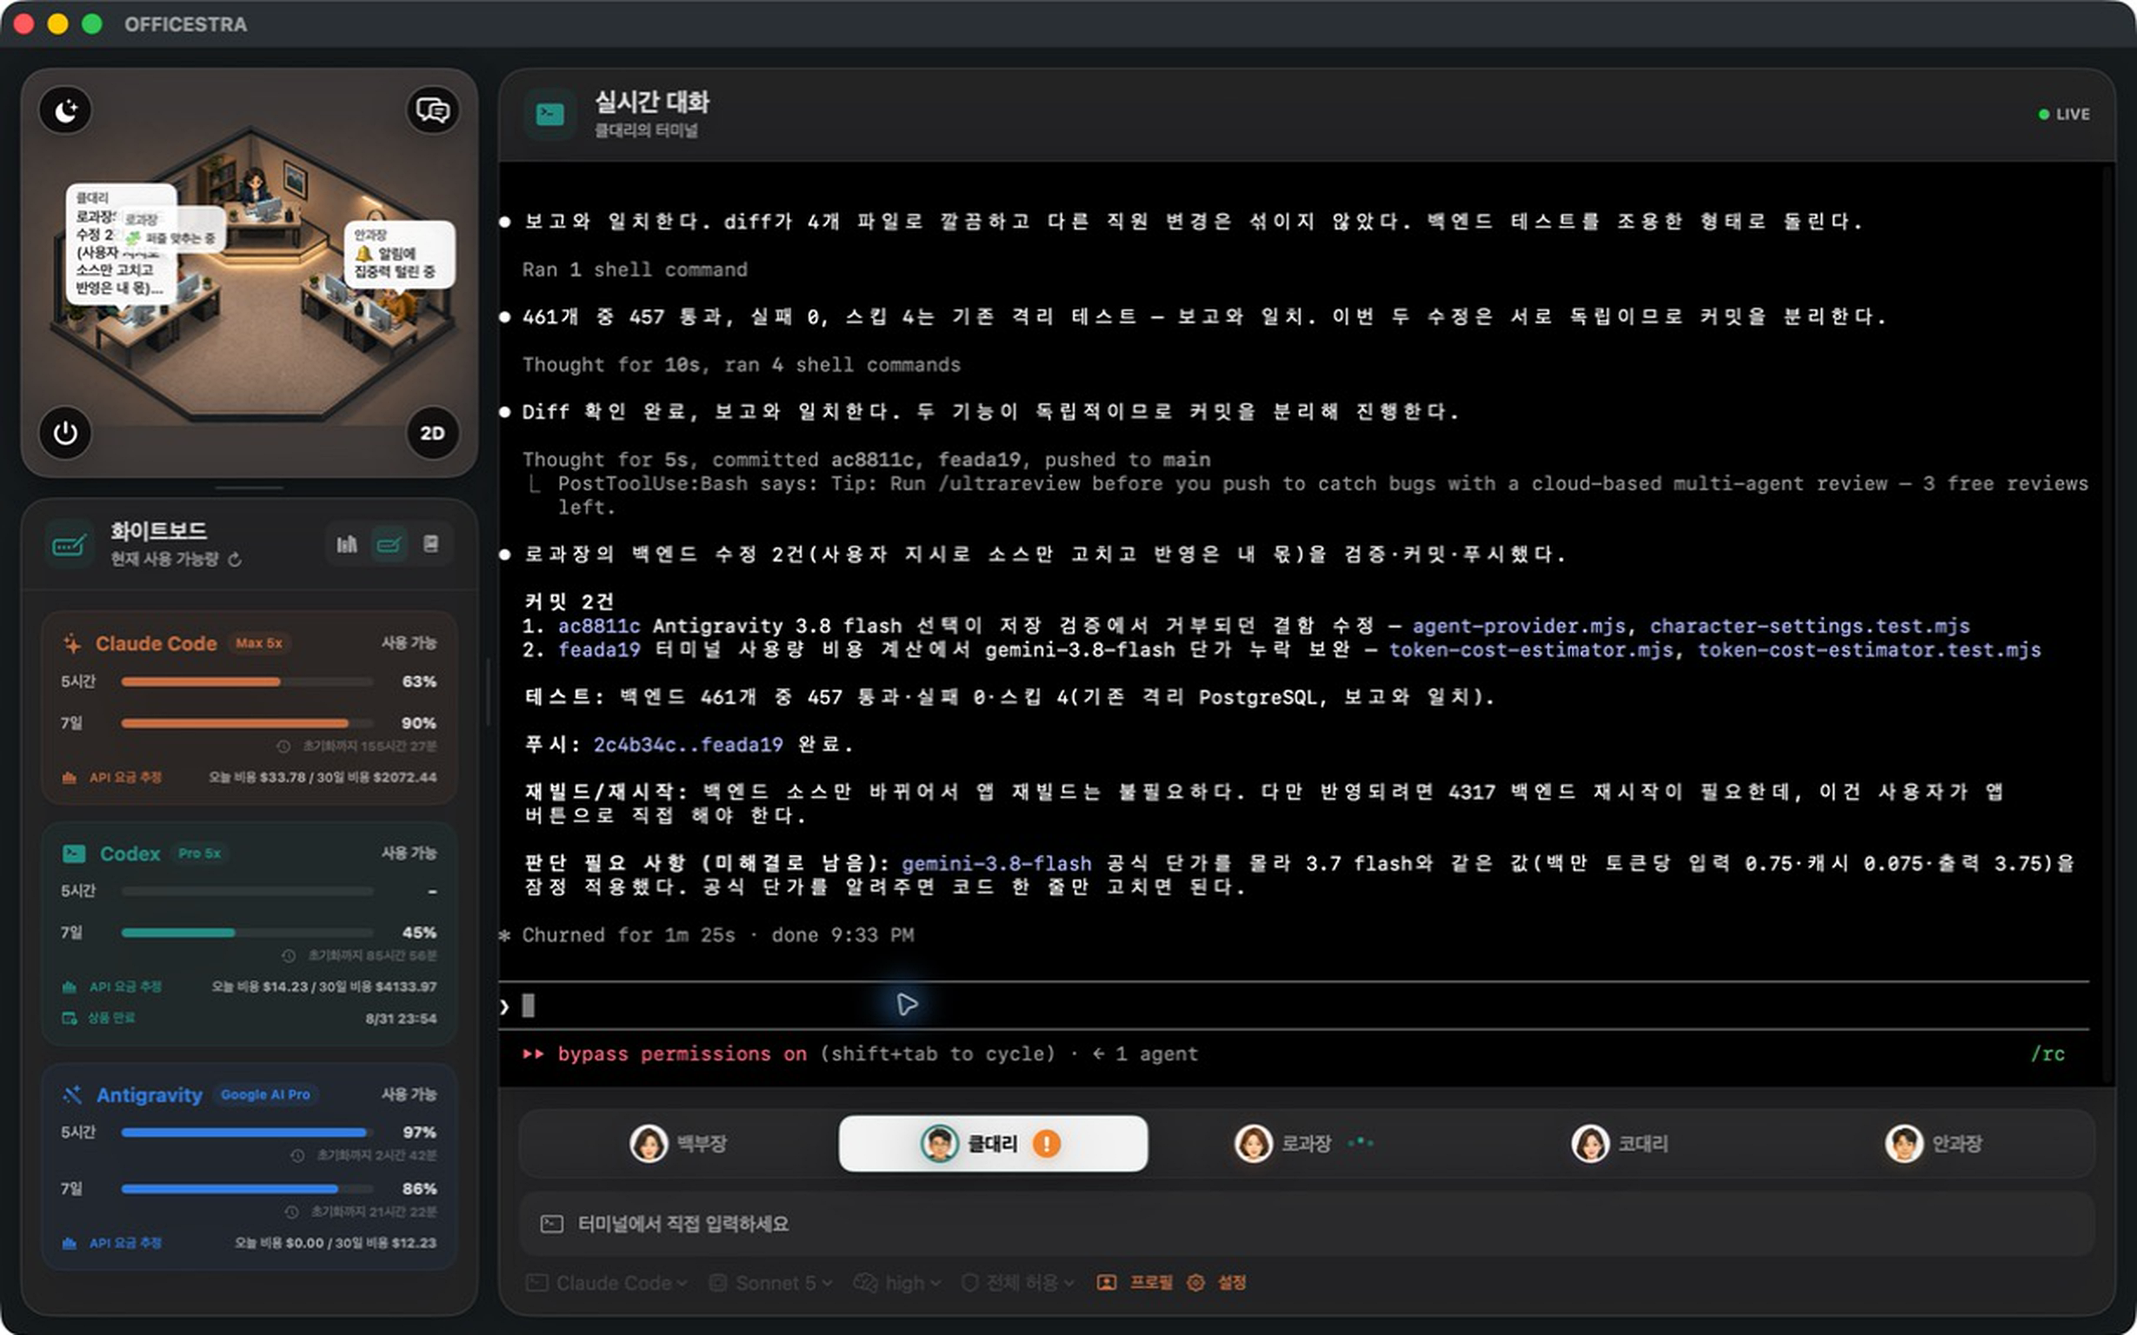
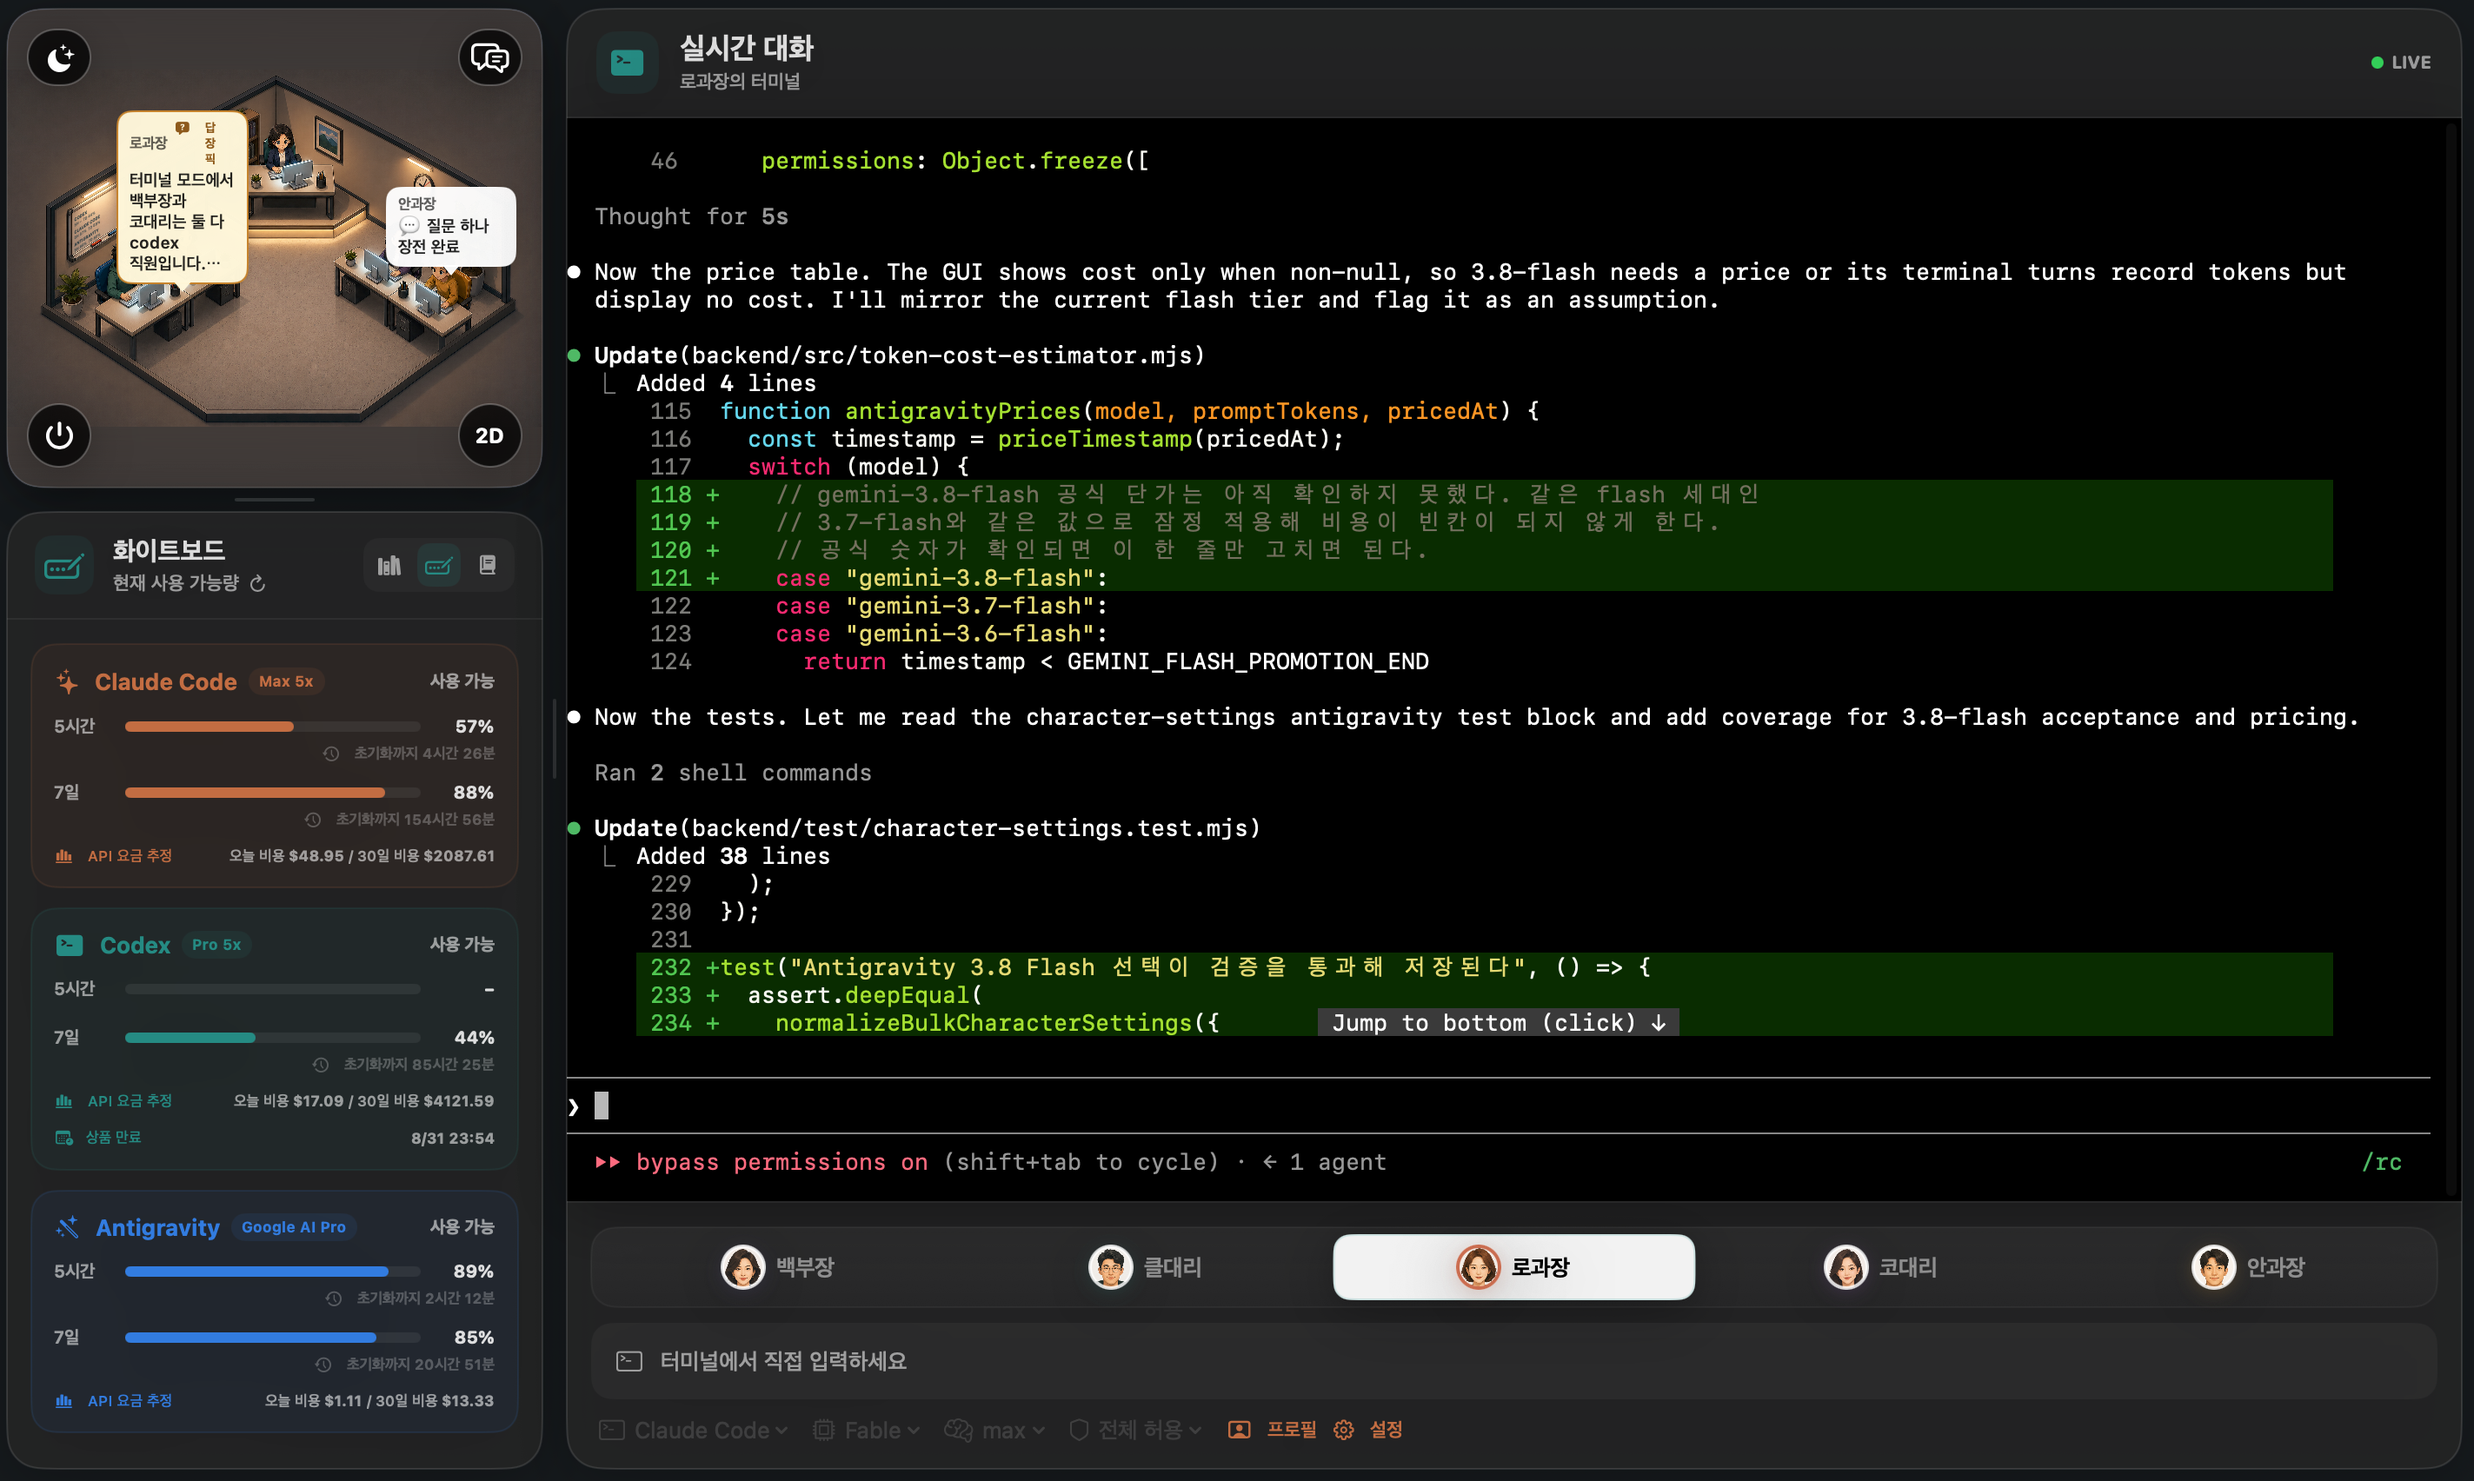
docs: use original GUI and terminal screenshots

diff --git a/README.en.md b/README.en.md
@@ -60,17 +60,20 @@ the next task.
 
 ## Two ways to work: GUI and real terminal
 
-<p align="center">
-  <img src="docs/images/officestra-gui-mode.png" alt="OFFICESTRA GUI mode" width="100%"><br>
-  <strong>GUI mode</strong><br>
-  <sub>Conversations, work history, and coworkers in one view</sub>
-</p>
-
-<p align="center">
-  <img src="docs/images/officestra-terminal-mode.png" alt="Claude Code CLI running inside OFFICESTRA terminal mode" width="100%"><br>
-  <strong>Terminal mode</strong><br>
-  <sub>The same coworker's live Claude Code CLI session</sub>
-</p>
+<table>
+  <tr>
+    <td width="50%" align="center">
+      <img src="docs/images/officestra-gui-mode.png" alt="OFFICESTRA GUI mode" width="100%"><br>
+      <strong>GUI mode</strong><br>
+      <sub>Conversations, work history, and coworkers in one view</sub>
+    </td>
+    <td width="50%" align="center">
+      <img src="docs/images/officestra-terminal-mode.png" alt="Claude Code CLI running inside OFFICESTRA terminal mode" width="100%"><br>
+      <strong>Terminal mode</strong><br>
+      <sub>The same coworker's live Claude Code CLI session</sub>
+    </td>
+  </tr>
+</table>
 
 Move between a conversational GUI and real interactive CLIs while keeping each
 coworker's progress, limits, and history in one place. Visual styles can change;
